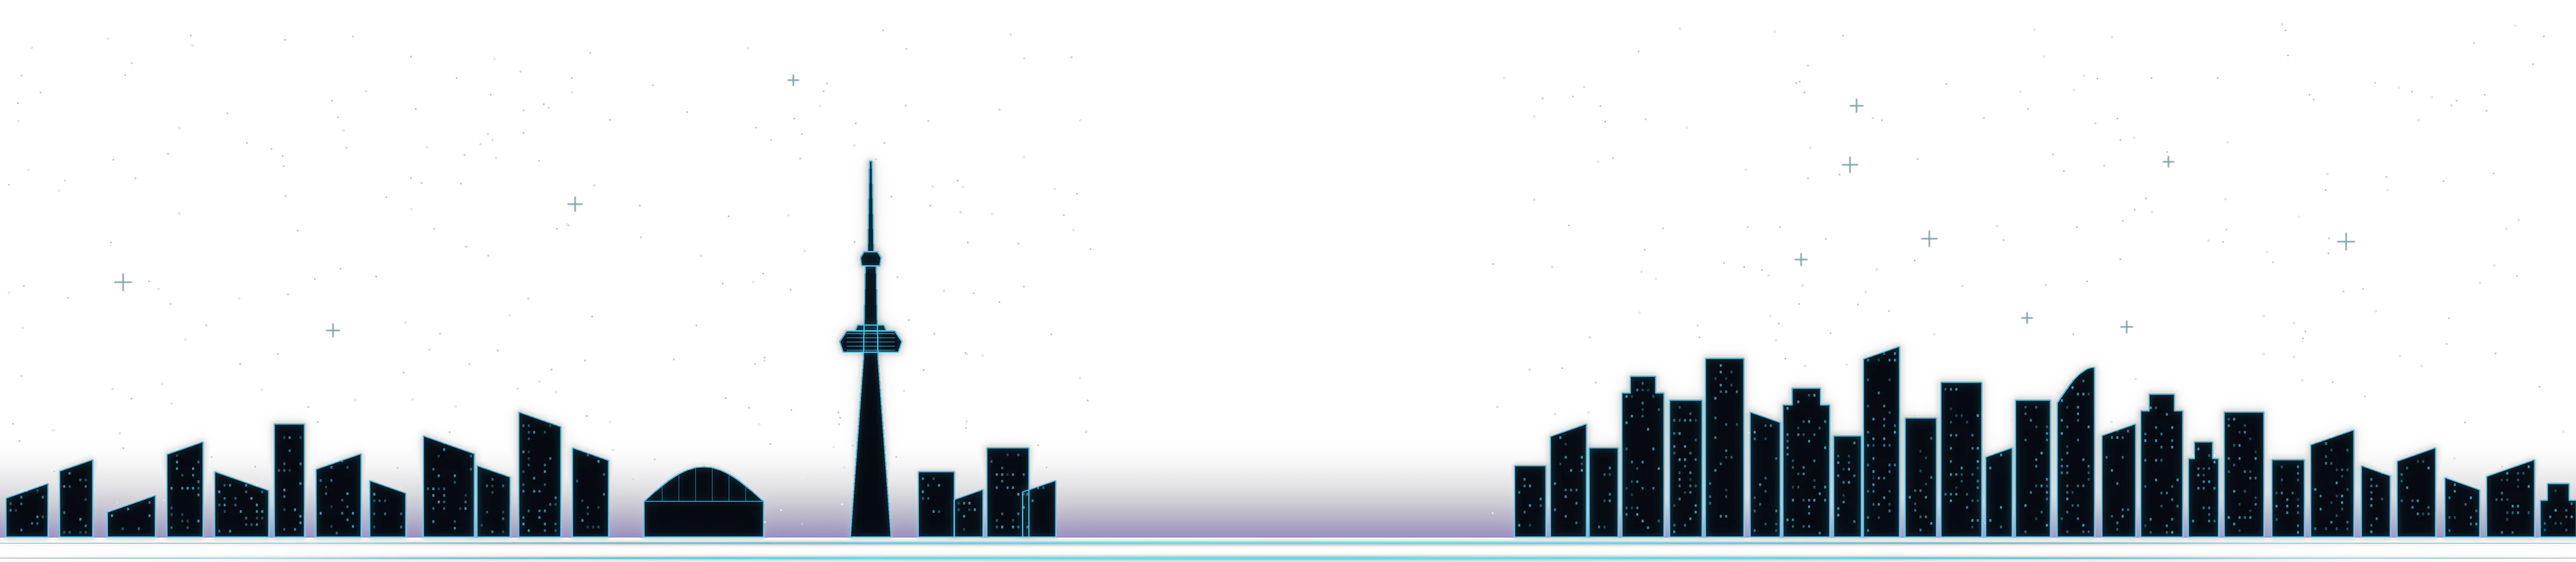
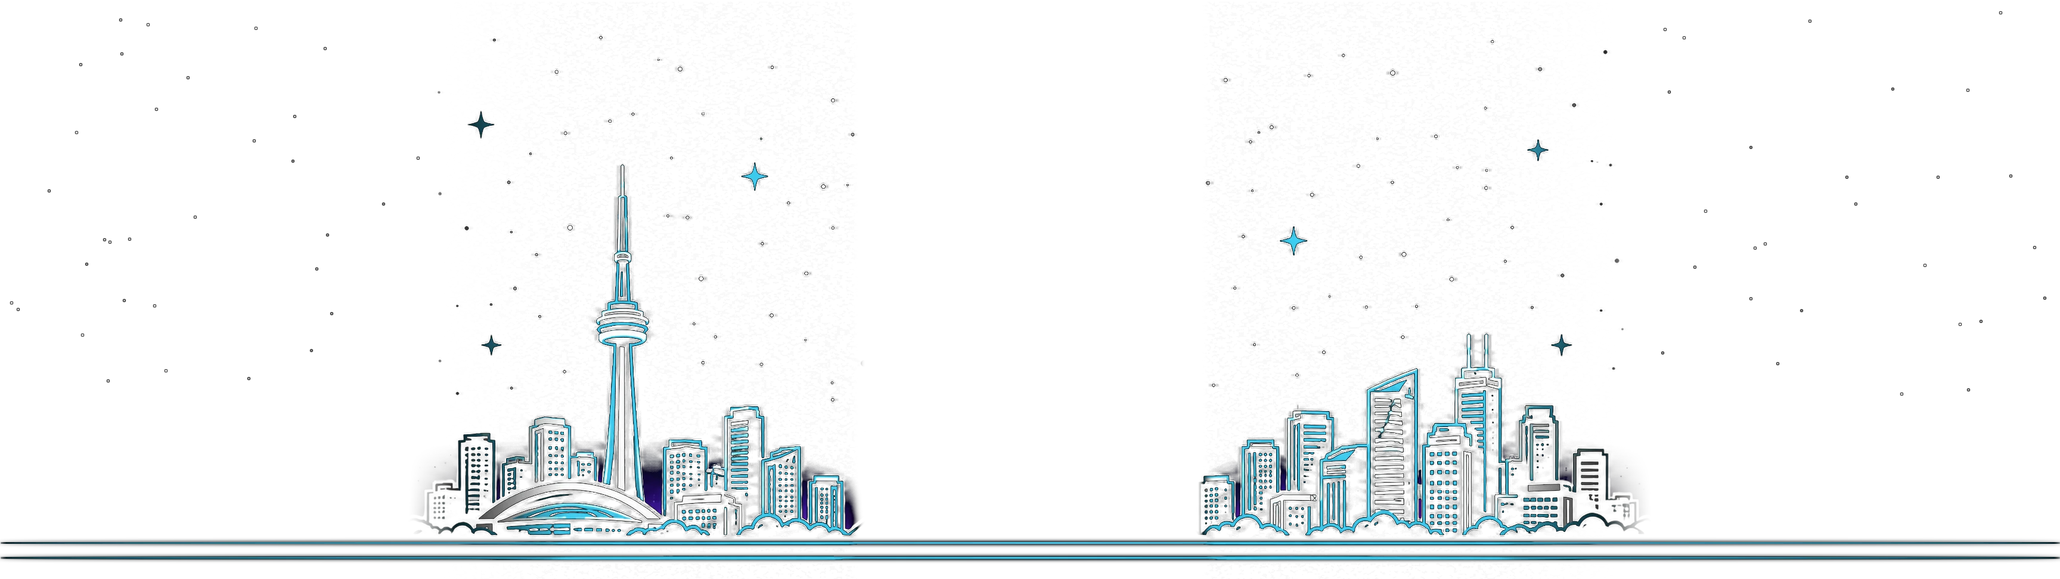
Loader: widescreen skyline from Krys's mockup
- skyline.webp rebuilt from Krys's widescreen mockup (CN Tower, Rogers
  Centre, downtown core, starfield), recoloured to #3DC9F0, scaled so
  its two horizon lines sit exactly on the animation's lines; city
  fades softly at its ends, stars and lines continue for ultrawides
- Original centre animation kept as its own fixed 2:3 layer, never
  stretched; the scene sits behind it (3.2x its height wide)
- Phones unchanged and never download the skyline

Claude-Session: https://claude.ai/code/session_01Uve6pFe4KynvzSVAD1vMhd

diff --git a/pc-loader.js b/pc-loader.js
@@ -93,11 +93,12 @@
     '.pcl-media{display:block;height:min(88vh,150vw);height:min(88dvh,150vw);width:auto;aspect-ratio:2/3;' +
     'max-width:100vw;object-fit:contain;background:#000;pointer-events:none;user-select:none}' +
     // wide screens (tablets, laptops, desktops): Toronto skyline backdrop extends the scene to the screen edges.
-    // The scene is 4x the animation's height wide, centred on it; its horizon lines line up with the art's.
+    // The original animation stays its own fixed-proportion layer (2:3, never stretched); the scene sits behind it,
+    // 3.2x the animation's height wide and 0.9x tall, centred, with its horizon lines on the art's lines.
     '.pcl-scene{display:none;position:absolute;left:50%;transform:translateX(-50%);pointer-events:none;' +
     'top:calc(50% - min(44vh,75vw));top:calc(50% - min(44dvh,75vw));' +
-    'width:calc(4 * min(88vh,150vw));width:calc(4 * min(88dvh,150vw));' +
-    'height:calc(0.874 * min(88vh,150vw));height:calc(0.874 * min(88dvh,150vw))}' +
+    'width:calc(3.2 * min(88vh,150vw));width:calc(3.2 * min(88dvh,150vw));' +
+    'height:calc(0.9 * min(88vh,150vw));height:calc(0.9 * min(88dvh,150vw))}' +
     '@media (min-aspect-ratio:3/4){' +
       '.pcl-overlay{overflow:hidden}' +
       '.pcl-scene{display:block;background:url("' + BASE + 'skyline.webp") 0 0/100% 100% no-repeat}' +
